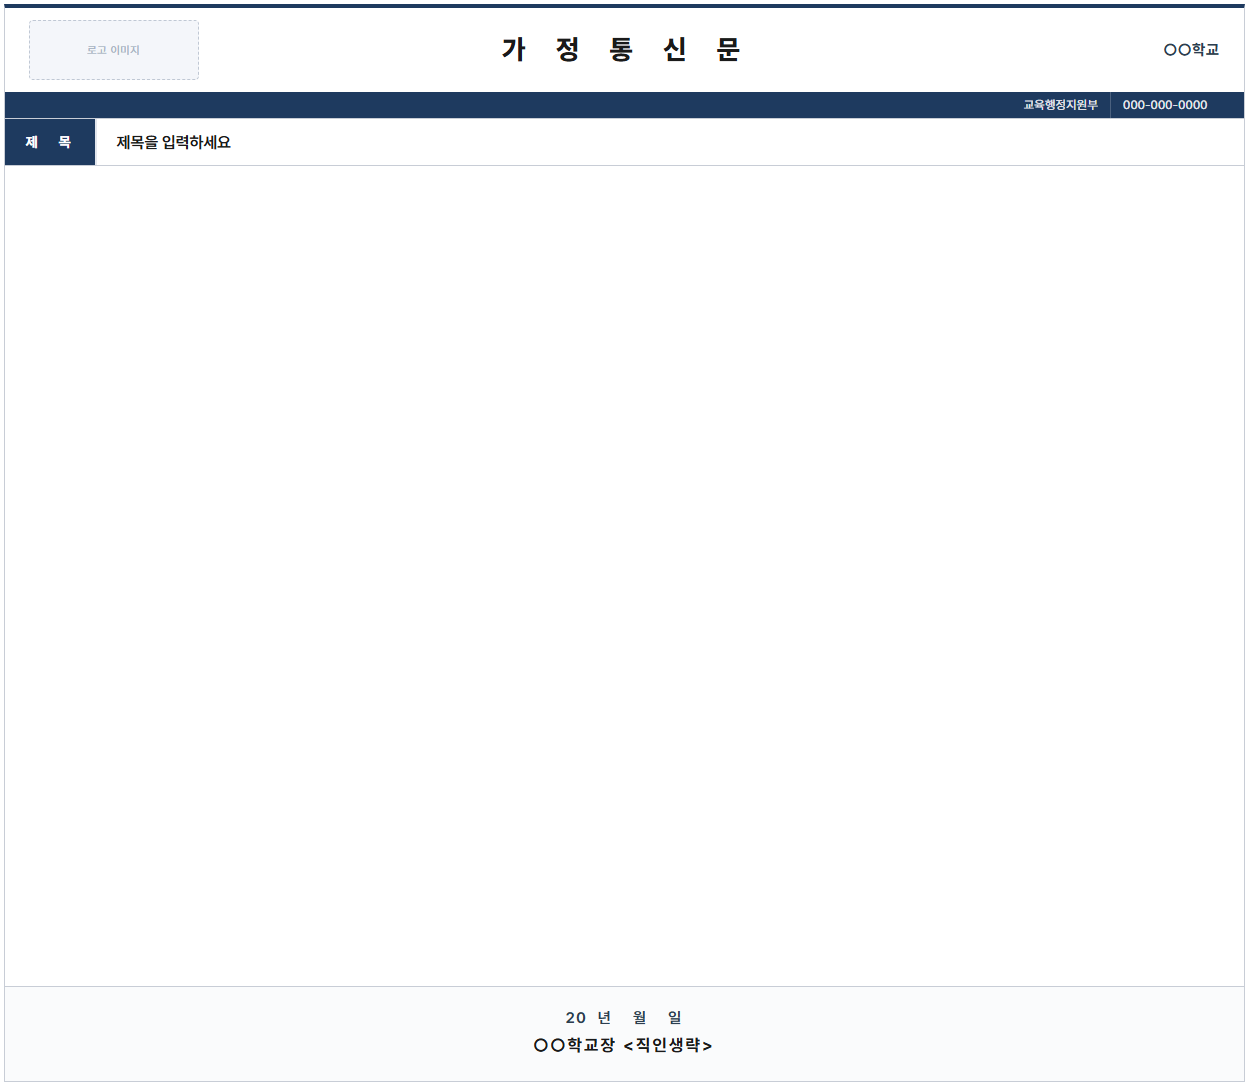
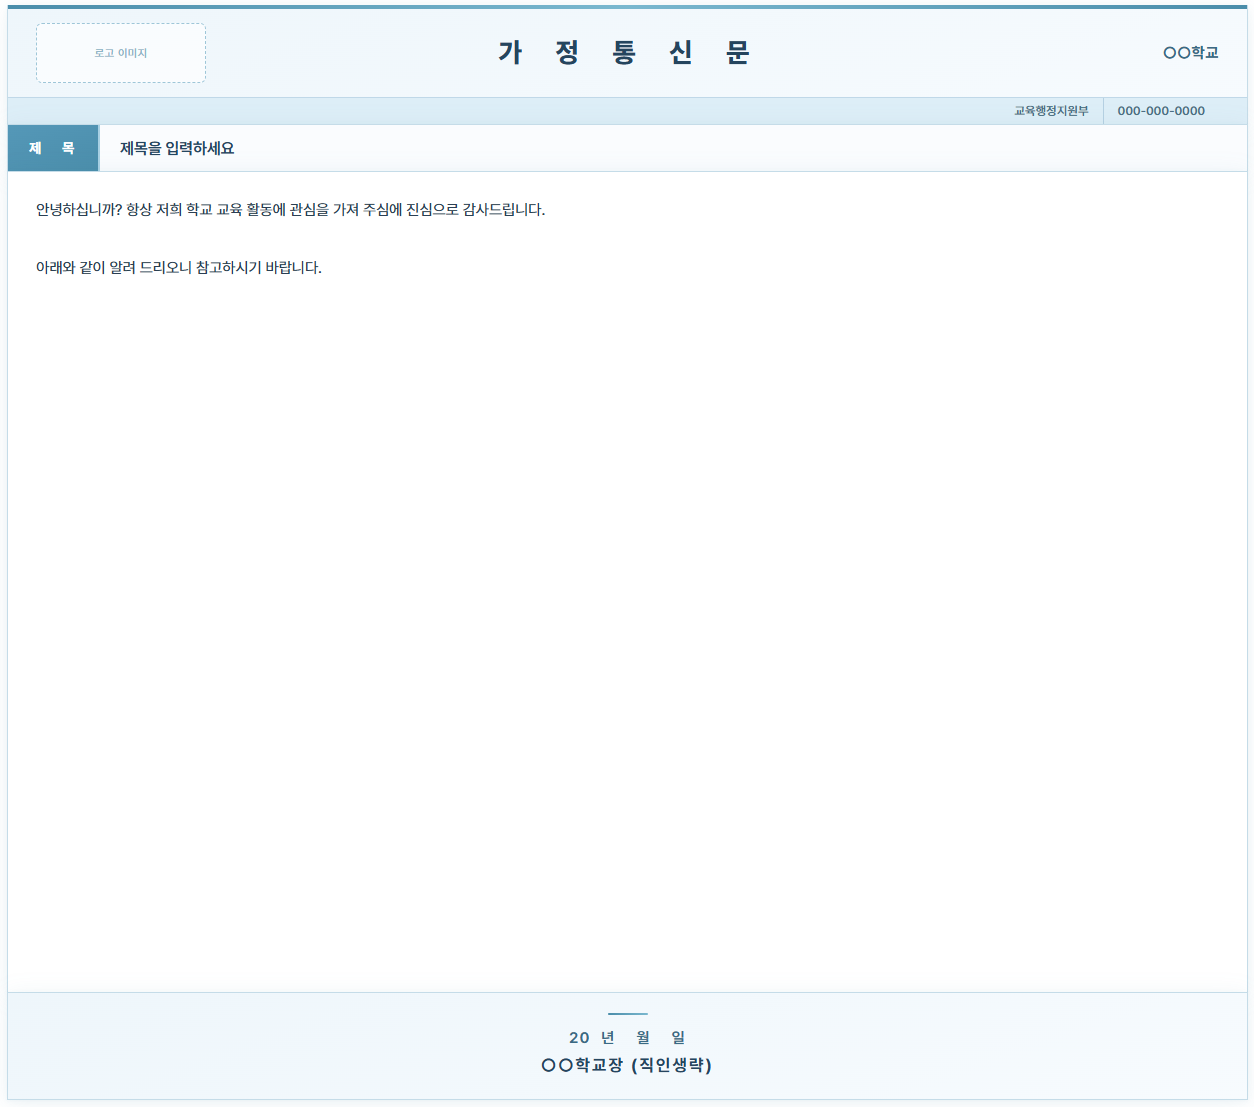
가정통신문-01 디자인 고도화

diff --git a/templates/design_template/newsletter-01/style.css b/templates/design_template/newsletter-01/style.css
@@ -1,4 +1,4 @@
-/* ── 가정통신문 디자인 템플릿 ──────────────────── */
+/* ── 가정통신문 디자인 템플릿 (소프트 파스텔) ──────────────────── */
 @import url('https://cdn.jsdelivr.net/gh/orioncactus/pretendard@v1.3.9/dist/web/static/pretendard.min.css');
 
 .nl-template * {
@@ -7,14 +7,25 @@
 
 .nl-template {
   font-family: var(--nl-font-family, 'Pretendard', 'Malgun Gothic', '맑은 고딕', 'Apple SD Gothic Neo', sans-serif);
+  /* border-radius: 8px; */
+  overflow: hidden;
+  box-shadow: 0 4px 24px rgba(74, 141, 170, 0.10), 0 1px 4px rgba(74, 141, 170, 0.06);
 }
 
 /* ── Section 1: 헤더 ── */
 .nl-header-section {
-  border: 1.5px solid #c8cdd6;
-  border-top: 4px solid #1e3a5f;
+  border: 1.5px solid #c5dce8;
+  border-top: none;
   border-bottom: none;
-  background: #fff;
+  background: linear-gradient(160deg, #eef6fb 0%, #f7fbfe 100%);
+  position: relative;
+}
+
+.nl-header-section::before {
+  content: '';
+  display: block;
+  height: 4px;
+  background: linear-gradient(90deg, #4a8daa 0%, #7ab8cf 50%, #4a8daa 100%);
 }
 
 /* 로고 | 타이틀 | 학교명 행 */
@@ -24,9 +35,9 @@
   align-items: center;
   justify-content: center;
   min-height: 76px;
-  padding: 12px 24px;
+  padding: 14px 28px;
   gap: 16px;
-  background: #fff;
+  background: transparent;
 }
 
 /* 좌측: 로고 프레임 */
@@ -46,14 +57,14 @@
   justify-content: center;
   overflow: hidden;
   flex-shrink: 0;
-  border-radius: 4px;
+  border-radius: 6px;
   transition: border-color 0.2s;
 }
 
 /* 로고 미등록 시 시각적 플레이스홀더 */
 .nl-logo-frame[data-has-logo="0"] {
-  border: 1.5px dashed #c0c8d4;
-  background: #f4f6fa;
+  border: 1.5px dashed #9ec6d8;
+  background: rgba(255, 255, 255, 0.65);
 }
 
 .nl-logo-frame[data-has-logo="0"]::after {
@@ -63,7 +74,7 @@
   left: 50%;
   transform: translate(-50%, -50%);
   font-size: 0.68em;
-  color: #a8b3c4;
+  color: #8ab2c6;
   white-space: nowrap;
   letter-spacing: 0.05em;
   pointer-events: none;
@@ -86,8 +97,8 @@
 .nl-main-title {
   font-size: 1.7em;
   font-weight: 800;
-  color: #1a1a1a;
-  letter-spacing: 0.22em;
+  color: #25455e;
+  letter-spacing: 0.26em;
   text-align: center;
   margin: 0;
   line-height: 1.2;
@@ -106,40 +117,40 @@
 .nl-school-name {
   font-size: 0.95em;
   font-weight: 700;
-  color: #2c3e50;
+  color: #3a6a85;
   letter-spacing: 0.04em;
   text-align: right;
 }
 
-/* 부서명/연락처 행: 진하게 */
+/* 부서명/연락처 행: 소프트 파스텔 */
 .nl-header-info {
   display: flex;
   align-items: center;
   justify-content: flex-end;
   gap: 0;
-  padding: 0 24px;
-  background: #1e3a5f;
-  border-top: none;
+  padding: 0 28px;
+  background: #ddeef7;
+  border-top: 1px solid #c0d8e8;
 }
 
 .nl-dept,
 .nl-phone {
   font-size: 0.75em;
-  color: rgba(255, 255, 255, 0.88);
-  font-weight: 400;
-  padding: 6px 12px;
+  color: #4a6e84;
+  font-weight: 500;
+  padding: 6px 14px;
   letter-spacing: 0.02em;
 }
 
 .nl-dept {
-  border-right: 1px solid rgba(255, 255, 255, 0.2);
+  border-right: 1px solid #b5d0e2;
 }
 
 /* ── Section 2: 제목 ── */
 .nl-subject-section {
-  border-left: 1.5px solid #c8cdd6;
-  border-right: 1.5px solid #c8cdd6;
-  border-top: 1px solid #c8cdd6;
+  border-left: 1.5px solid #c5dce8;
+  border-right: 1.5px solid #c5dce8;
+  border-top: 1px solid #c5dce8;
   background: #fff;
 }
 
@@ -155,7 +166,7 @@
   justify-content: center;
   min-width: 90px;
   padding: 10px 16px;
-  background: #1e3a5f;
+  background: linear-gradient(160deg, #5598b8 0%, #4a8daa 100%);
   border-right: none;
   font-size: 0.88em;
   font-weight: 700;
@@ -170,26 +181,27 @@
   padding: 10px 20px;
   font-size: 1em;
   font-weight: 600;
-  color: #1a1a1a;
+  color: #25455e;
   flex: 1;
-  border-left: 2px solid #e2e6ed;
+  border-left: 2px solid #a8d0e3;
+  background: #fafcfe;
 }
 
 /* ── Section 3: 본문 ── */
 .nl-content-section {
-  border-left: 1.5px solid #c8cdd6;
-  border-right: 1.5px solid #c8cdd6;
-  border-top: 1px solid #c8cdd6;
+  border-left: 1.5px solid #c5dce8;
+  border-right: 1.5px solid #c5dce8;
+  border-top: 1px solid #c5dce8;
   background: #fff;
 }
 
 .nl-content-area {
   min-height: 820px;
-  padding: 24px;
+  padding: 24px 28px;
   font-size: var(--nl-font-size, 0.95em);
   line-height: var(--nl-line-height, 1.9);
   font-weight: var(--nl-font-weight, normal);
-  color: #222;
+  color: #2a3f52;
   display: flex;
   flex-wrap: wrap;
   align-items: flex-start;
@@ -197,9 +209,9 @@
 }
 
 .nl-content-area.nl-body-drop-over {
-  outline: 2px dashed #1e3a5f;
+  outline: 2px dashed #4a8daa;
   outline-offset: -4px;
-  background: #f0f4fa;
+  background: #f0f7fb;
 }
 
 /* 본문에 삽입된 블록 */
@@ -220,9 +232,9 @@
   gap: 2px;
   z-index: 10;
   background: rgba(255, 255, 255, 0.95);
-  border-radius: 5px;
+  border-radius: 6px;
   padding: 2px 3px;
-  box-shadow: 0 1px 6px rgba(0, 0, 0, 0.18);
+  box-shadow: 0 2px 8px rgba(74, 141, 170, 0.18);
 }
 
 .nl-body-block-wrap:hover .nl-body-block-controls {
@@ -235,19 +247,19 @@
   justify-content: center;
   width: 26px;
   min-height: 26px;
-  border: 1px solid #e0e0e0;
-  border-radius: 4px;
+  border: 1px solid #d4e8f2;
+  border-radius: 5px;
   background: #fff;
   cursor: pointer;
   font-size: 14px;
-  color: #555;
+  color: #4a8daa;
   padding: 0;
   transition: background 0.15s, color 0.15s;
 }
 
 .nl-body-ctrl-btn:hover {
-  background: #f0f0f0;
-  color: #111;
+  background: #eef6fb;
+  color: #25455e;
 }
 
 .nl-body-ctrl-del:hover {
@@ -258,20 +270,31 @@
 
 /* ── Section 4: 푸터 ── */
 .nl-footer-section {
-  border: 1.5px solid #c8cdd6;
-  border-top: 1px solid #c8cdd6;
-  background: #fafbfc;
+  border: 1.5px solid #c5dce8;
+  border-top: 1px solid #c5dce8;
+  background: linear-gradient(160deg, #eef6fb 0%, #f7fbfe 100%);
 }
 
 .nl-footer-inner {
-  padding: 22px 24px 26px;
+  padding: 20px 24px 24px;
   text-align: center;
+  position: relative;
+}
+
+.nl-footer-inner::before {
+  content: '';
+  display: block;
+  width: 40px;
+  height: 2px;
+  background: linear-gradient(90deg, #4a8daa, #7ab8cf);
+  border-radius: 2px;
+  margin: 0 auto 14px;
 }
 
 .nl-footer-date {
   font-size: 0.95em;
   font-weight: 600;
-  color: #2c3e50;
+  color: #3a6a85;
   letter-spacing: 0.1em;
   margin: 0 0 8px;
 }
@@ -279,7 +302,7 @@
 .nl-footer-sign {
   font-size: 1.05em;
   font-weight: 700;
-  color: #1a1a1a;
+  color: #25455e;
   letter-spacing: 0.12em;
   margin: 0;
 }

diff --git a/css/canvas.css b/css/canvas.css
@@ -213,8 +213,8 @@
 }
 
 .nl-itb-size-wrap.size-active {
-  border-color: #1e3a5f;
-  background: #f0f4fa;
+  border-color: #4a8daa;
+  background: #eef6fb;
 }
 
 .nl-itb-size-display {
